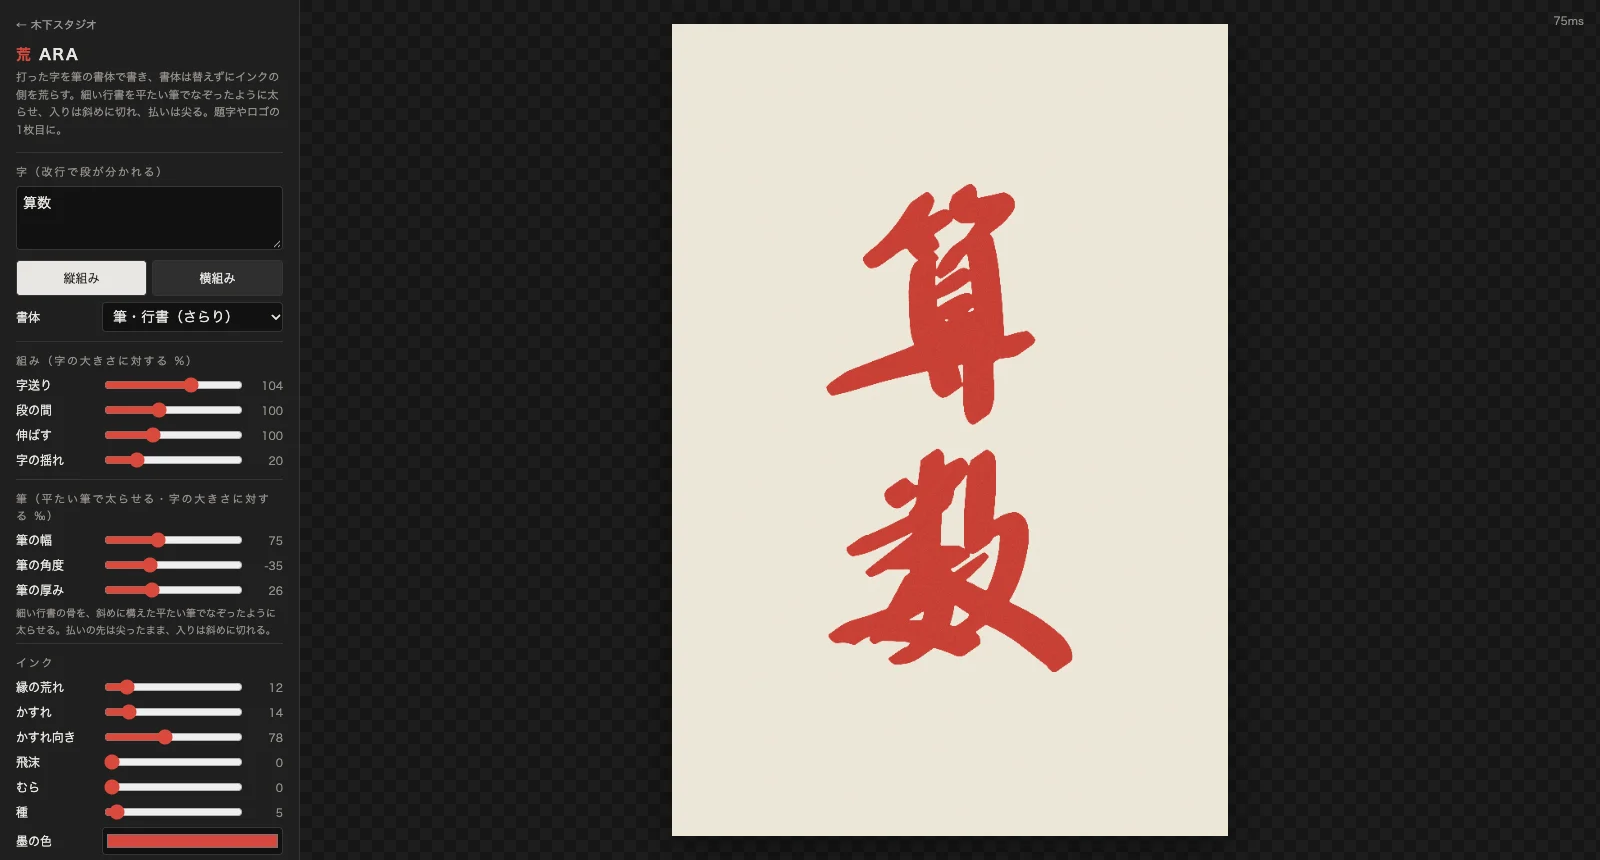
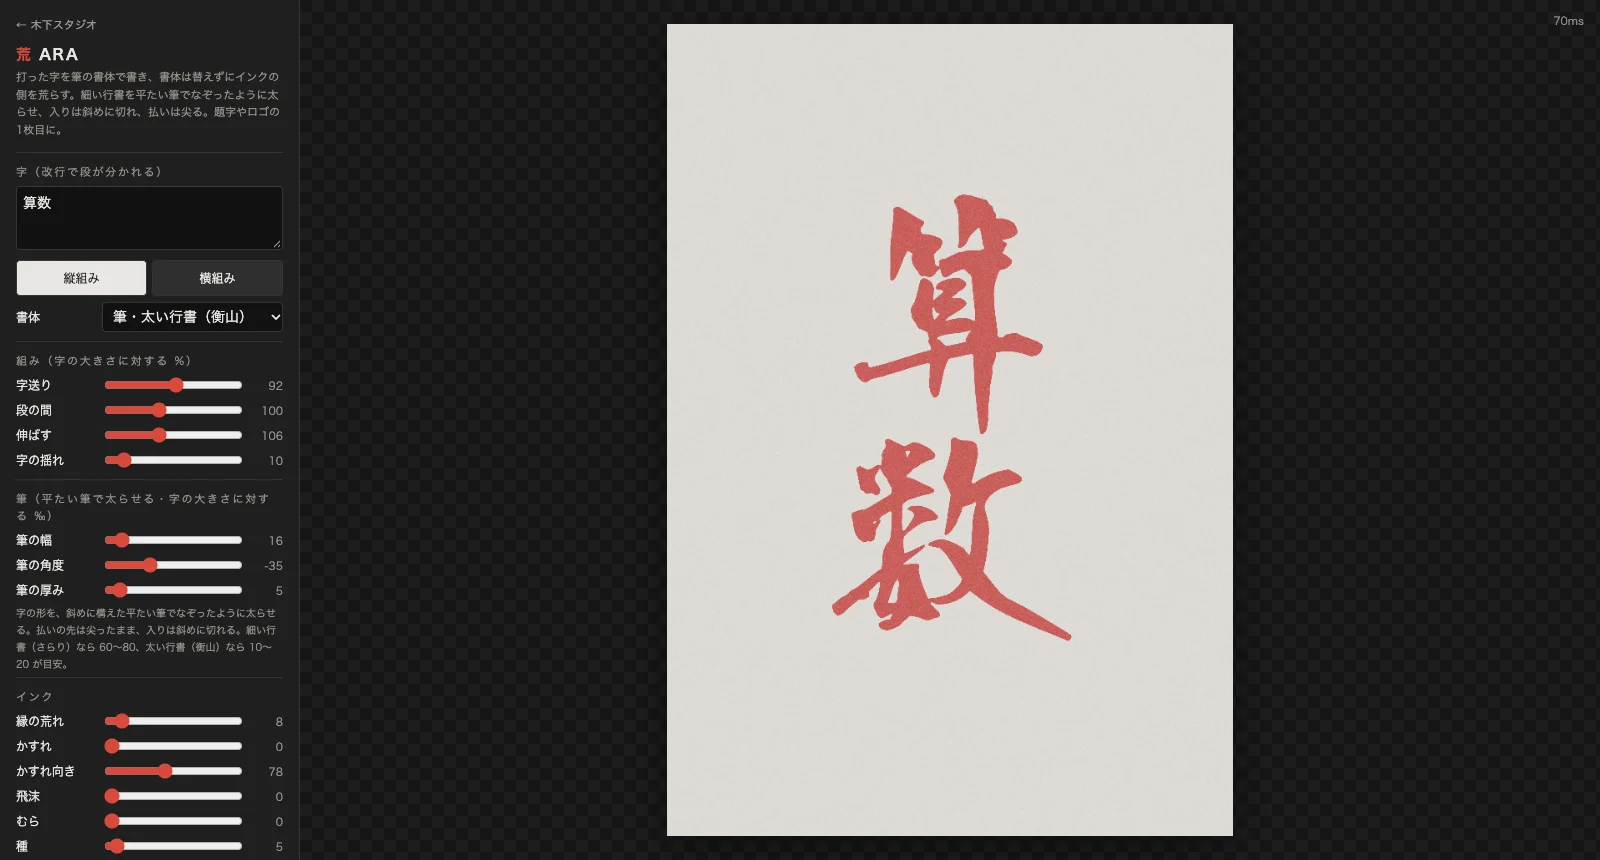
ara: 参考に寄せる＝太い行書（衡山毛筆フォント行書・手元にある時だけ）を既定に・筆の幅16‰・朱と紙の色を実測（刷り上がり 201/95/91・紙 221/218/213）・紙の粒45・サムネ差し替え

diff --git a/ara/index.html b/ara/index.html
@@ -60,27 +60,27 @@ canvas{max-width:100%;max-height:calc(100vh - 48px);box-shadow:0 10px 40px rgba(
   </div>
 
   <div class="grp"><div class="t">組み（字の大きさに対する %）</div>
-    <label>字送り<input type="range" id="adv" min="40" max="140" value="104"><span class="v"></span></label>
+    <label>字送り<input type="range" id="adv" min="40" max="140" value="92"><span class="v"></span></label>
     <label>段の間<input type="range" id="lead" min="50" max="180" value="100"><span class="v"></span></label>
-    <label>伸ばす<input type="range" id="stretch" min="60" max="180" value="100"><span class="v"></span></label>
-    <label>字の揺れ<input type="range" id="jit" min="0" max="100" value="20"><span class="v"></span></label>
+    <label>伸ばす<input type="range" id="stretch" min="60" max="180" value="106"><span class="v"></span></label>
+    <label>字の揺れ<input type="range" id="jit" min="0" max="100" value="10"><span class="v"></span></label>
   </div>
 
   <div class="grp"><div class="t">筆（平たい筆で太らせる・字の大きさに対する ‰）</div>
-    <label>筆の幅<input type="range" id="nib" min="0" max="200" value="75"><span class="v"></span></label>
+    <label>筆の幅<input type="range" id="nib" min="0" max="200" value="16"><span class="v"></span></label>
     <label>筆の角度<input type="range" id="nibA" min="-90" max="90" value="-35"><span class="v"></span></label>
-    <label>筆の厚み<input type="range" id="nib2" min="0" max="80" value="26"><span class="v"></span></label>
-    <p class="small" style="margin:2px 0 0">細い行書の骨を、斜めに構えた平たい筆でなぞったように太らせる。払いの先は尖ったまま、入りは斜めに切れる。</p>
+    <label>筆の厚み<input type="range" id="nib2" min="0" max="80" value="5"><span class="v"></span></label>
+    <p class="small" style="margin:2px 0 0">字の形を、斜めに構えた平たい筆でなぞったように太らせる。払いの先は尖ったまま、入りは斜めに切れる。細い行書（さらり）なら 60〜80、太い行書（衡山）なら 10〜20 が目安。</p>
   </div>
 
   <div class="grp"><div class="t">インク</div>
-    <label>縁の荒れ<input type="range" id="rough" min="0" max="100" value="12"><span class="v"></span></label>
-    <label>かすれ<input type="range" id="kasure" min="0" max="100" value="14"><span class="v"></span></label>
+    <label>縁の荒れ<input type="range" id="rough" min="0" max="100" value="8"><span class="v"></span></label>
+    <label>かすれ<input type="range" id="kasure" min="0" max="100" value="0"><span class="v"></span></label>
     <label>かすれ向き<input type="range" id="kang" min="0" max="180" value="78"><span class="v"></span></label>
     <label>飛沫<input type="range" id="splat" min="0" max="100" value="0"><span class="v"></span></label>
     <label>むら<input type="range" id="mura" min="0" max="100" value="0"><span class="v"></span></label>
     <label>種<input type="range" id="seed" min="1" max="99" value="5"><span class="v"></span></label>
-    <label class="w">墨の色<input type="color" id="col" value="#d8473f"></label>
+    <label class="w">墨の色<input type="color" id="col" value="#e86f6d"></label>
   </div>
 
   <div class="grp"><div class="t">版ずれ（2色目を下に）</div>
@@ -90,8 +90,8 @@ canvas{max-width:100%;max-height:calc(100vh - 48px);box-shadow:0 10px 40px rgba(
   </div>
 
   <div class="grp"><div class="t">紙</div>
-    <label class="w">地の色<input type="color" id="paper" value="#ece6d8"></label>
-    <label>紙の粒<input type="range" id="grain" min="0" max="100" value="30"><span class="v"></span></label>
+    <label class="w">地の色<input type="color" id="paper" value="#dddad5"></label>
+    <label>紙の粒<input type="range" id="grain" min="0" max="100" value="45"><span class="v"></span></label>
     <label>余白<input type="range" id="margin" min="0" max="100" value="18"><span class="v"></span></label>
     <label class="w">画像を荒らす<input type="file" id="imgFile" accept="image/*"></label>
     <div class="row"><button id="imgOff">画像をやめて字に戻す</button></div>
@@ -111,6 +111,7 @@ canvas{max-width:100%;max-height:calc(100vh - 48px);box-shadow:0 10px 40px rgba(
 <script>
 'use strict';
 const FONTS={
+  kouzan:{n:'筆・太い行書（衡山）',f:"'衡山毛筆フォント行書','KouzanBrushFontGyousyo','Yuji Syuku',serif"},
   sarari:{n:'筆・行書（さらり）',f:"'しょかきさらり行体','ShokakiSarariGyotai','Yuji Syuku',serif"},
   utage:{n:'筆・荒い（うたげ）',f:"'しょかきうたげ（無料版）','ShokakiUtage-FreeVer.','Yuji Boku',serif"},
   boku:{n:'筆・太い（Yuji Boku）',f:"'Yuji Boku',serif"},
@@ -118,7 +119,7 @@ const FONTS={
   min:{n:'明朝（ヒラギノ明朝 W6）',f:"'Hiragino Mincho ProN',serif",w:600},
   goth:{n:'ゴシック（ヒラギノ角ゴ W8）',f:"'Hiragino Sans','Hiragino Kaku Gothic ProN',sans-serif",w:800}};
 const KN=['adv','lead','stretch','jit','nib','nibA','nib2','rough','kasure','kang','splat','mura','seed','mis','misa','grain','margin'];
-const DEF={text:'算数',dir:'v',font:'sarari',adv:104,lead:100,stretch:100,jit:20,nib:75,nibA:-35,nib2:26,rough:12,kasure:14,kang:78,splat:0,mura:0,seed:5,col:'#d8473f',mis:0,misa:315,col2:'#2b3a8c',paper:'#ece6d8',grain:30,margin:18};
+const DEF={text:'算数',dir:'v',font:'kouzan',adv:92,lead:100,stretch:106,jit:10,nib:16,nibA:-35,nib2:5,rough:8,kasure:0,kang:78,splat:0,mura:0,seed:5,col:'#e86f6d',mis:0,misa:315,col2:'#2b3a8c',paper:'#dddad5',grain:45,margin:18};
 let st=Object.assign({},DEF),img=null;
 const $=id=>document.getElementById(id),cv=$('cv');
 
